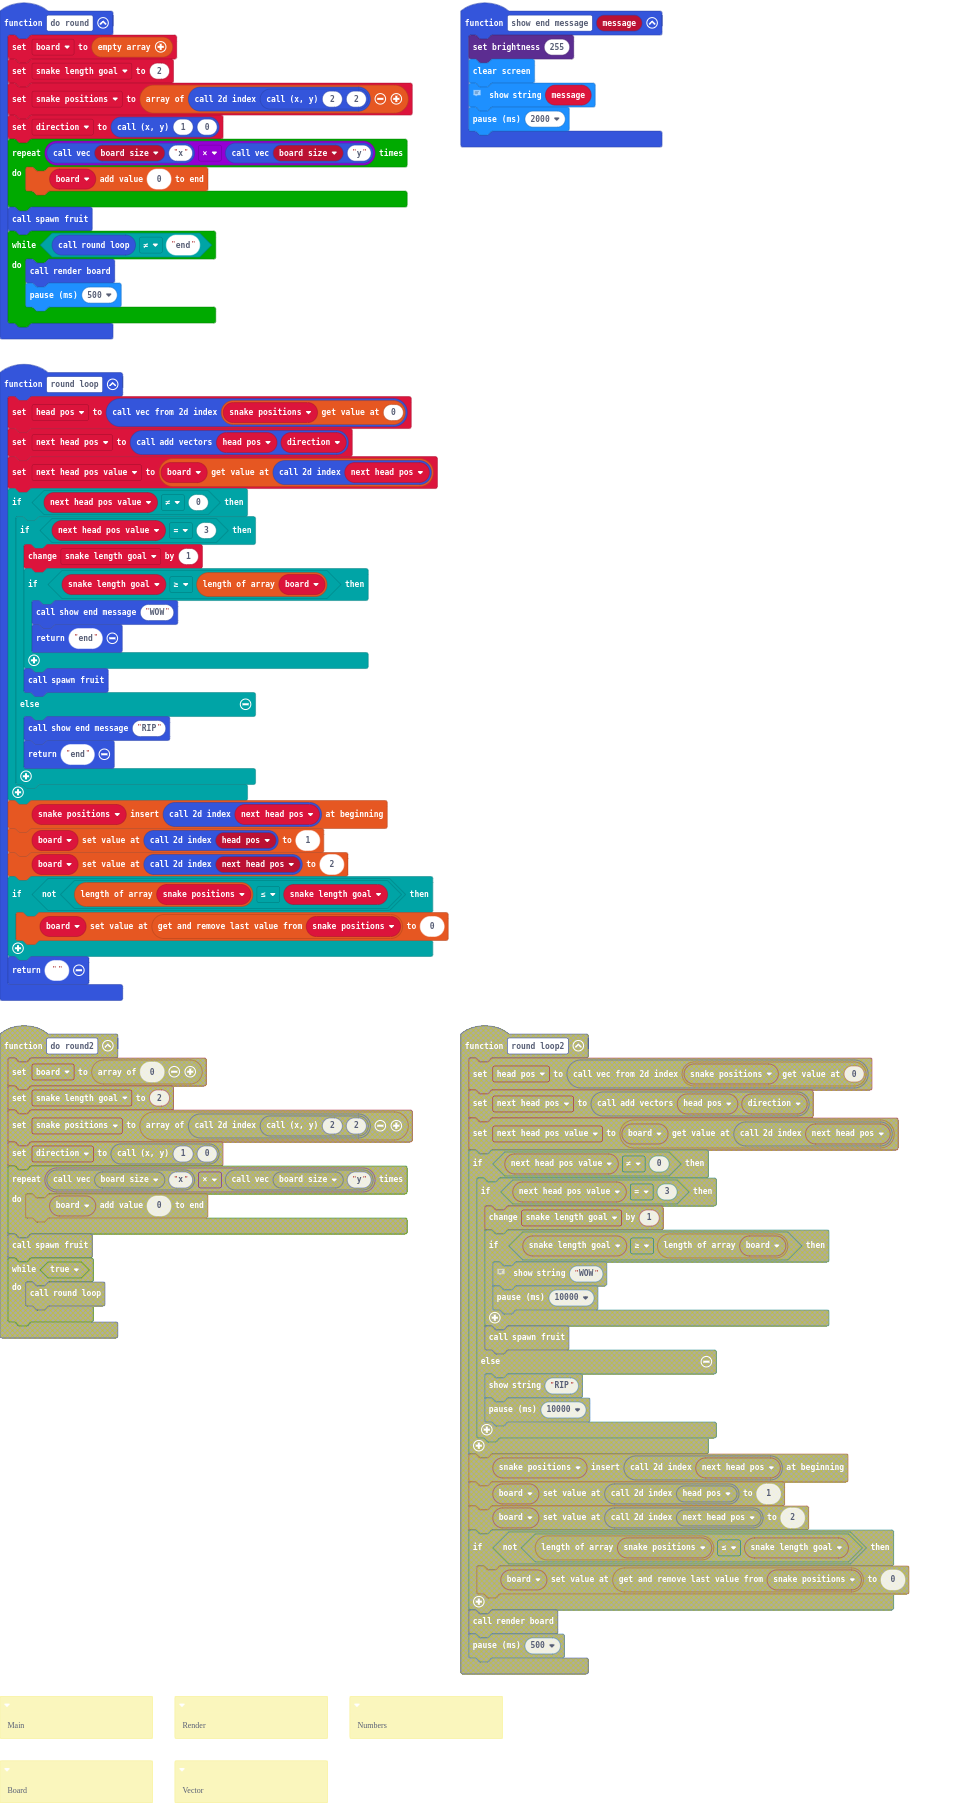
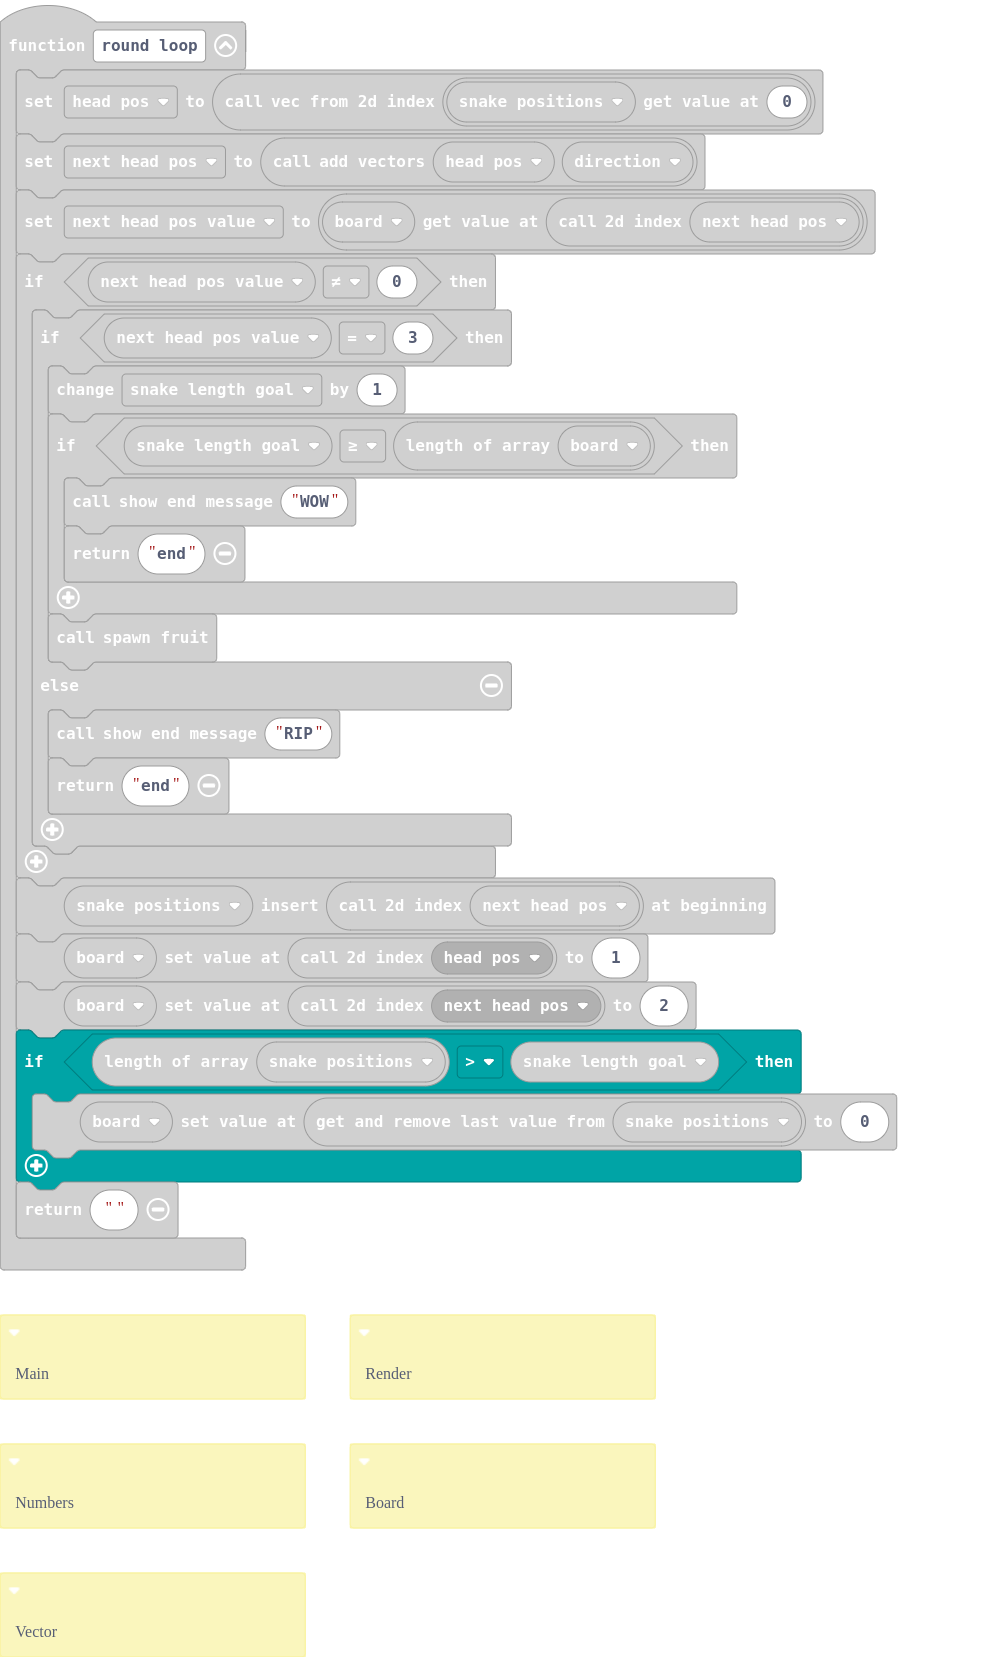
Simplify no tail removal check

diff --git a/main.ts b/main.ts
@@ -140,7 +140,7 @@ function round_loop () {
     snake_positions.unshift(_2d_index(next_head_pos))
     board[_2d_index(head_pos)] = 1
     board[_2d_index(next_head_pos)] = 2
-    if (!(snake_positions.length <= snake_length_goal)) {
+    if (snake_positions.length > snake_length_goal) {
         board[snake_positions.pop()] = 0
     }
     return ""
